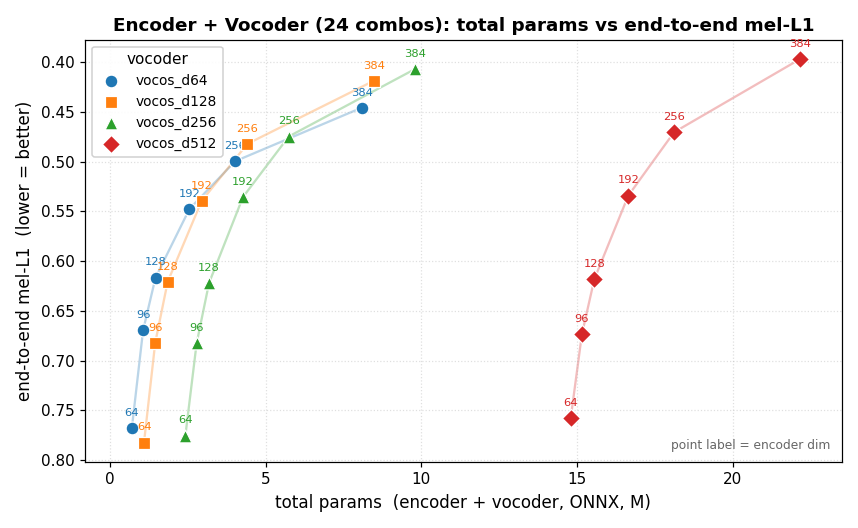
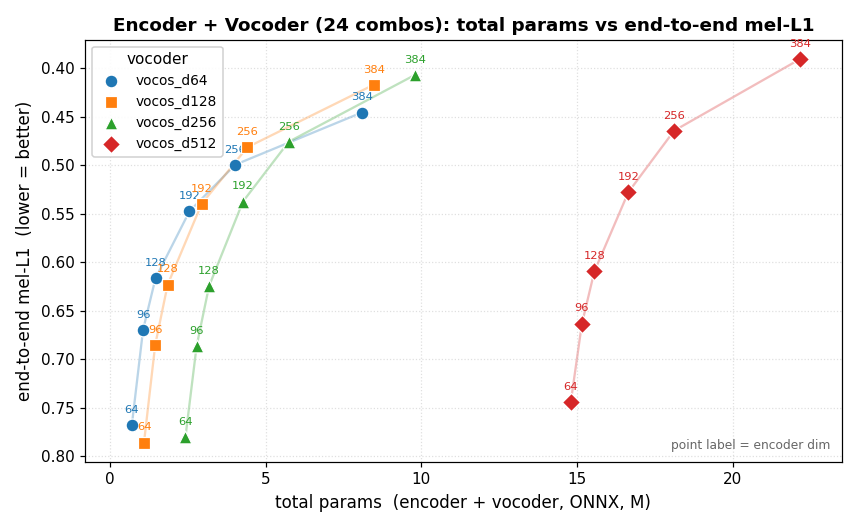
Add files via upload

diff --git a/docs/index.html b/docs/index.html
@@ -112,14 +112,15 @@ teacher-forced 評価ができず PyTorch で計測。L1 回帰学習なので d
 パラメータ数(ONNX 実測)・fp16 サイズ・CPU 時間は <a href="https://github.com/nnn112358/minispeech_onnx" target="_blank" rel="noopener">リポジトリ README</a> より
 (fp16・1 スレッド・mel T≈131)。<b>mel-L1</b> は copy-synthesis(wav→mel→ボコーダ→wav→mel の L1、
 JSUT val 50 発話をデプロイ fp16 ONNX で実測。小さいほど高品質)。
+判別器(MPD)を generator サイズから切り離し <code>max_ch=128</code> 固定で学習し直したもの(過強判別器の高域アーティファクトを抑え、特に dim が大きいほど改善: d512 0.166→0.151, d256 0.241→0.236)。
 </p>
 <table class="info">
 <thead><tr><th>モデル</th><th>種別</th><th>構成</th><th>ONNX params</th><th>fp16 サイズ</th><th>CPU 時間</th><th>mel-L1 ↓</th></tr></thead>
 <tbody>
 <tr><th>vocos_d64</th><td>Vocos</td><td>dim=64, n_fft=512 (tiny)</td><td>0.41M</td><td>0.8 MB</td><td>3.7 ms</td><td>0.350</td></tr>
-<tr><th>vocos_d128</th><td>Vocos</td><td>dim=128, n_fft=512 (Lite-C)</td><td>0.80M</td><td>1.6 MB</td><td>7.6 ms</td><td>0.279</td></tr>
-<tr><th>vocos_d256</th><td>Vocos</td><td>dim=256, n_fft=512 (Lite-A)</td><td>2.13M</td><td>4.3 MB</td><td>15.9 ms</td><td>0.241</td></tr>
-<tr><th>vocos_d512</th><td>Vocos</td><td>dim=512, n_fft=1024 (Full)</td><td>14.51M</td><td>29.1 MB</td><td>103.0 ms</td><td><b>0.166</b></td></tr>
+<tr><th>vocos_d128</th><td>Vocos</td><td>dim=128, n_fft=512 (Lite-C)</td><td>0.80M</td><td>1.6 MB</td><td>7.6 ms</td><td>0.275</td></tr>
+<tr><th>vocos_d256</th><td>Vocos</td><td>dim=256, n_fft=512 (Lite-A)</td><td>2.13M</td><td>4.3 MB</td><td>15.9 ms</td><td>0.236</td></tr>
+<tr><th>vocos_d512</th><td>Vocos</td><td>dim=512, n_fft=1024 (Full)</td><td>14.51M</td><td>29.1 MB</td><td>103.0 ms</td><td><b>0.151</b></td></tr>
 </tbody>
 </table>
 <figure class="plot">
